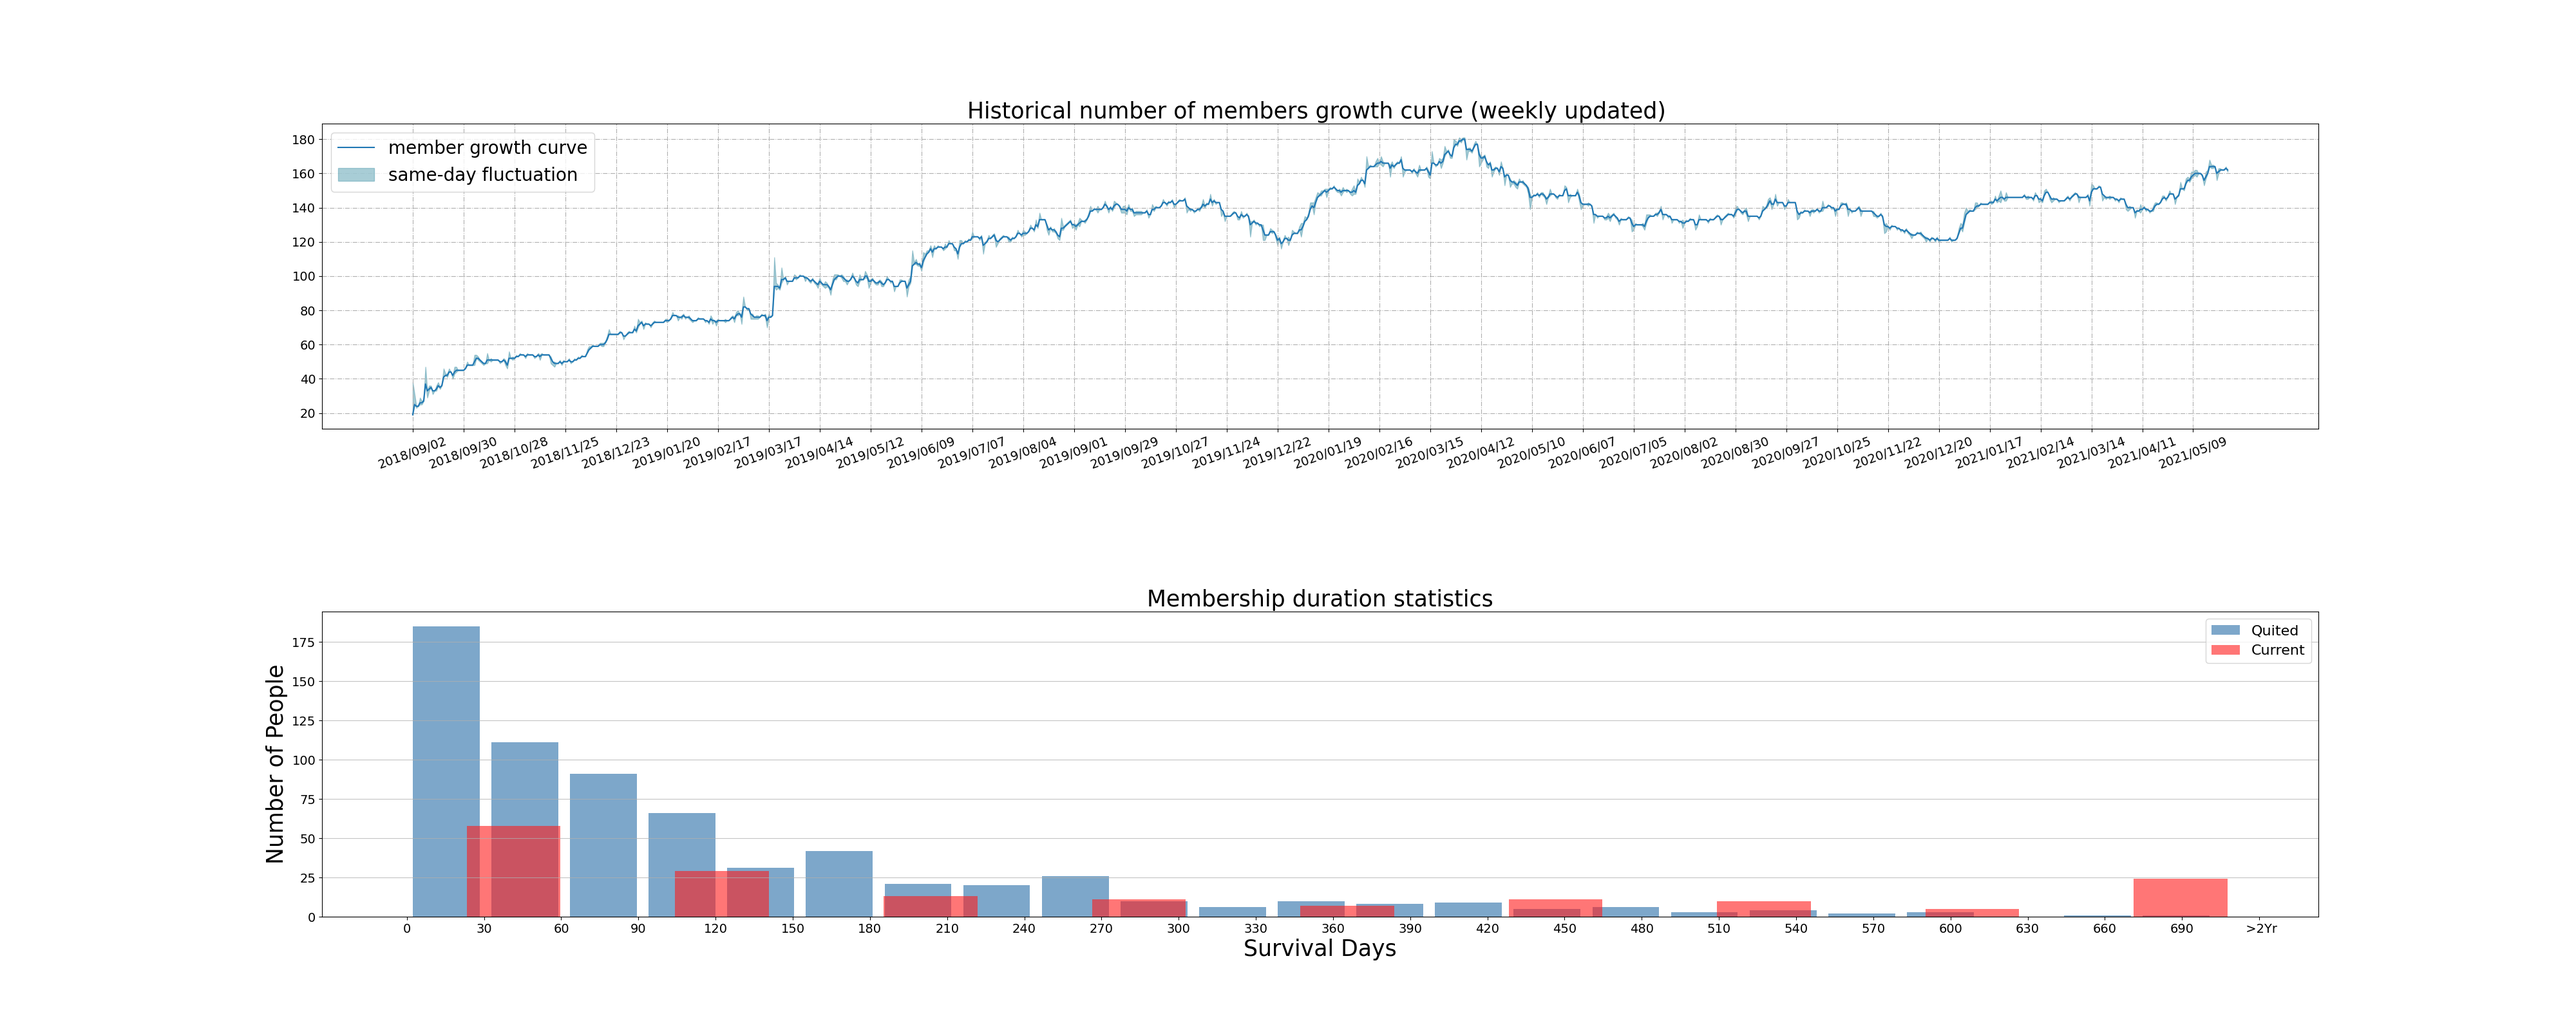
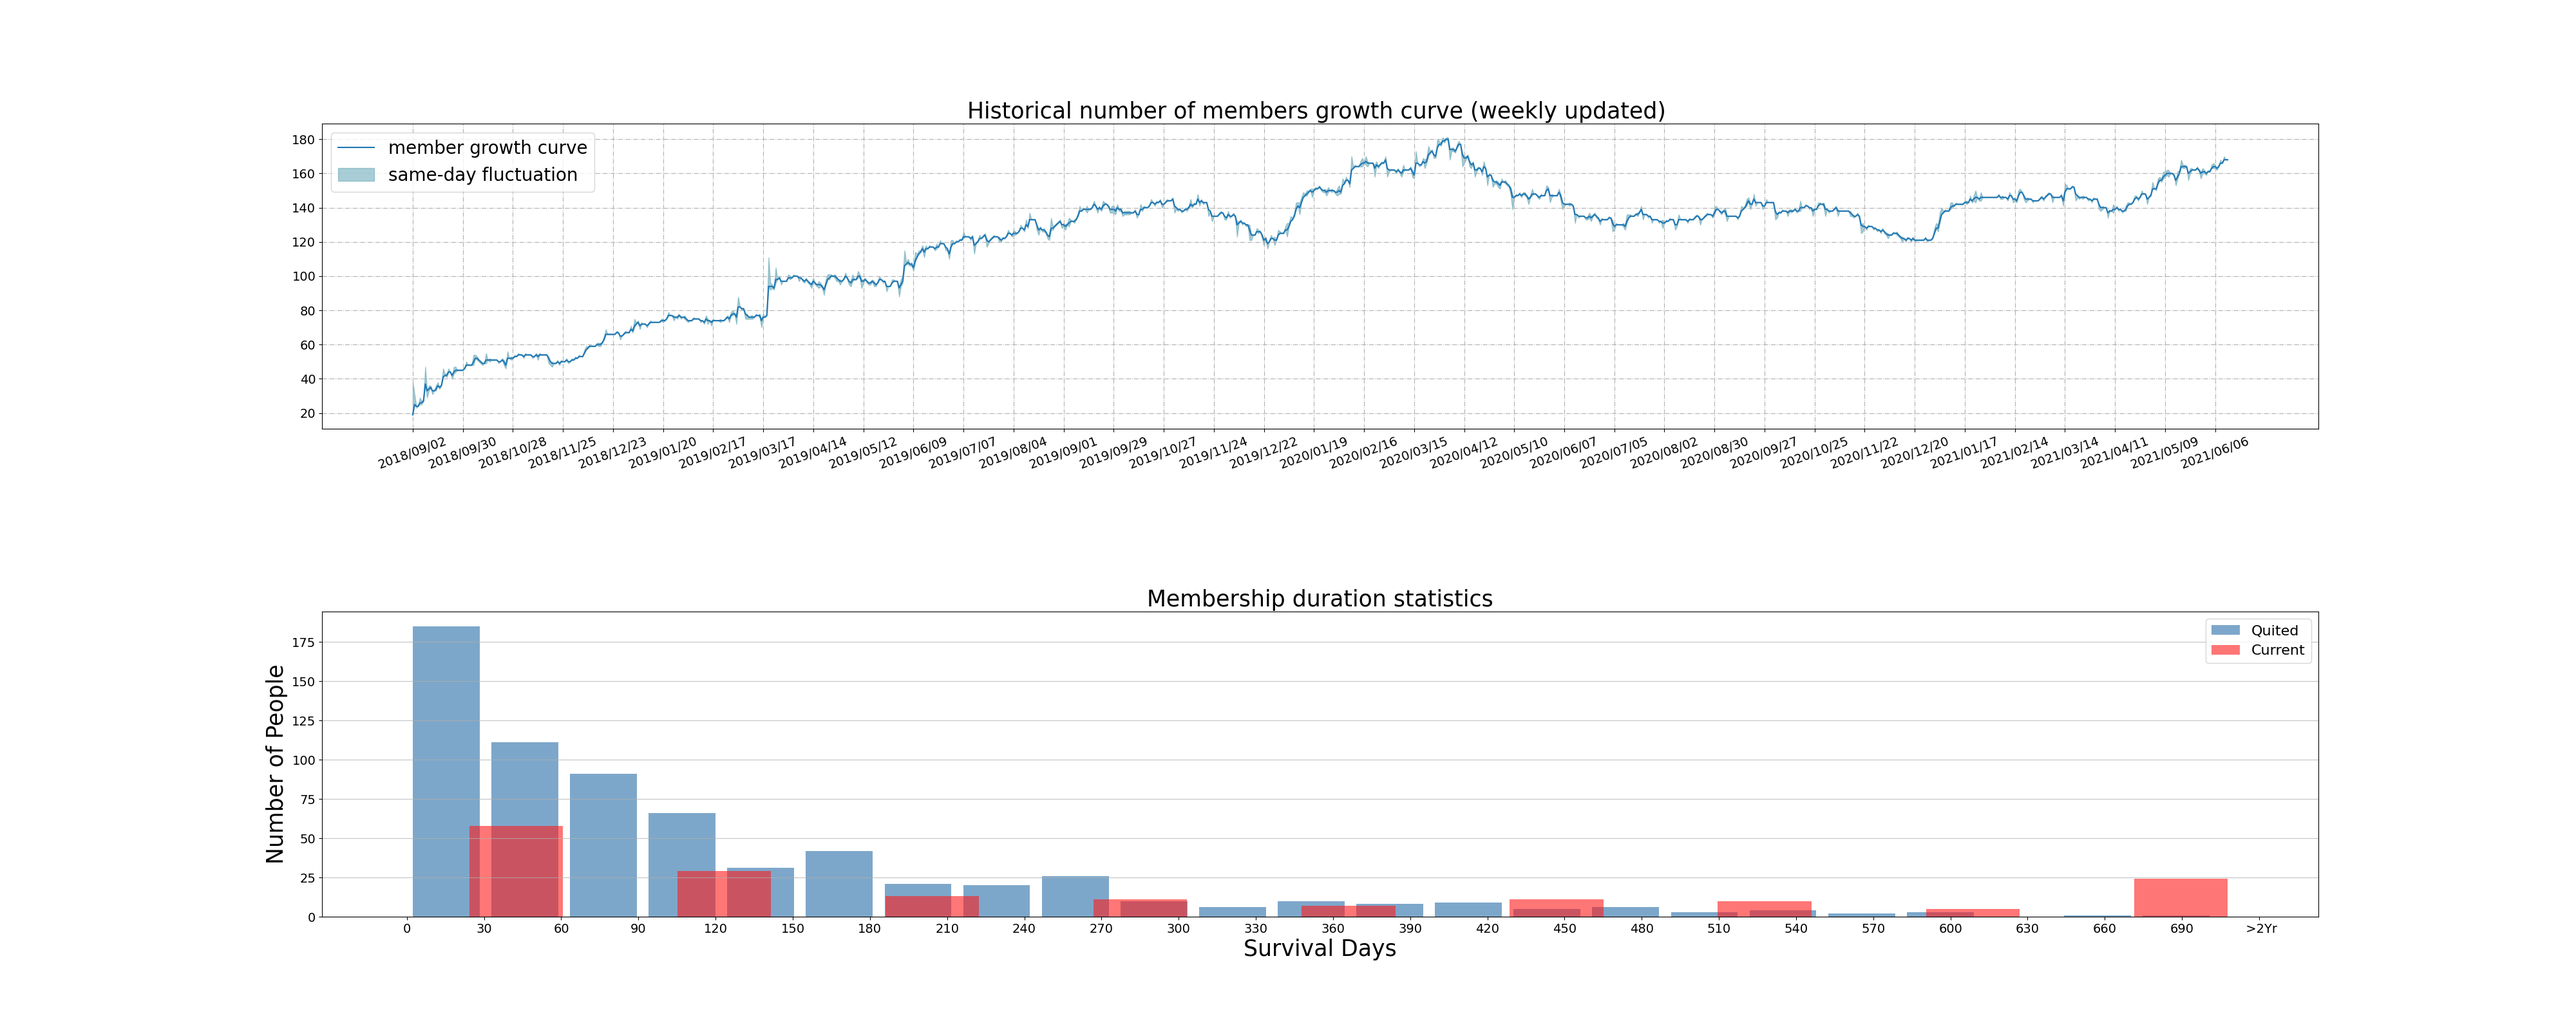
update curve

diff --git a/generateEXCEL/Data/PlotGroupCurve.py b/generateEXCEL/Data/PlotGroupCurve.py
@@ -55,7 +55,7 @@ Days = []
 Nums = []
 upper = []
 lower = []
-for i in range(1000):
+for i in range(1500):
   day = start + datetime.timedelta(days=i)
   if day>today: break
   
